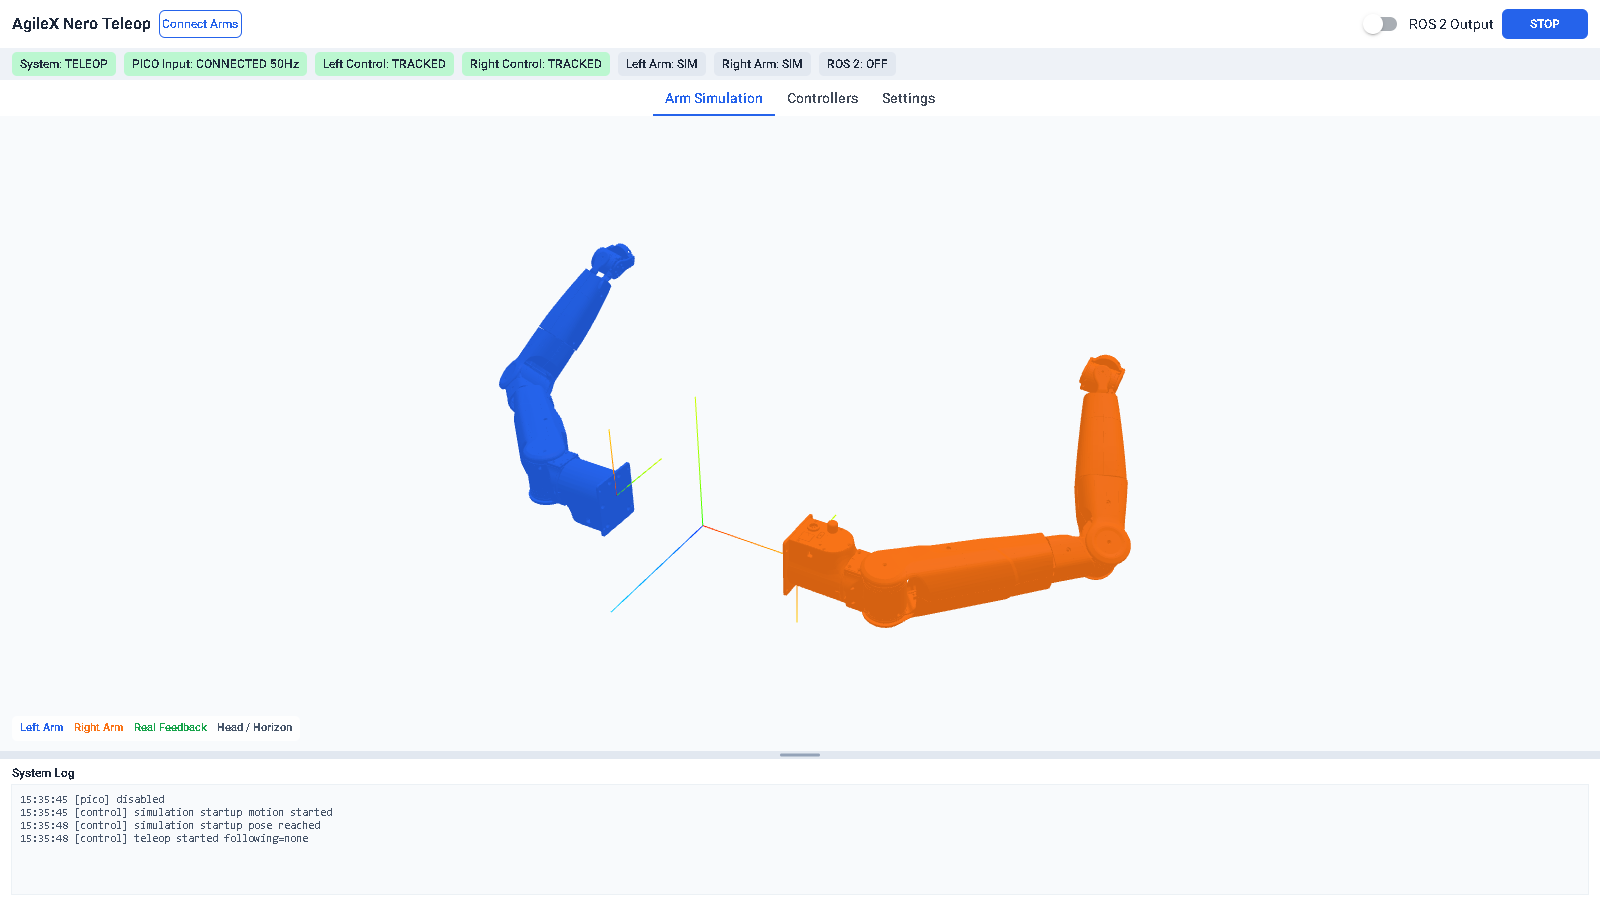
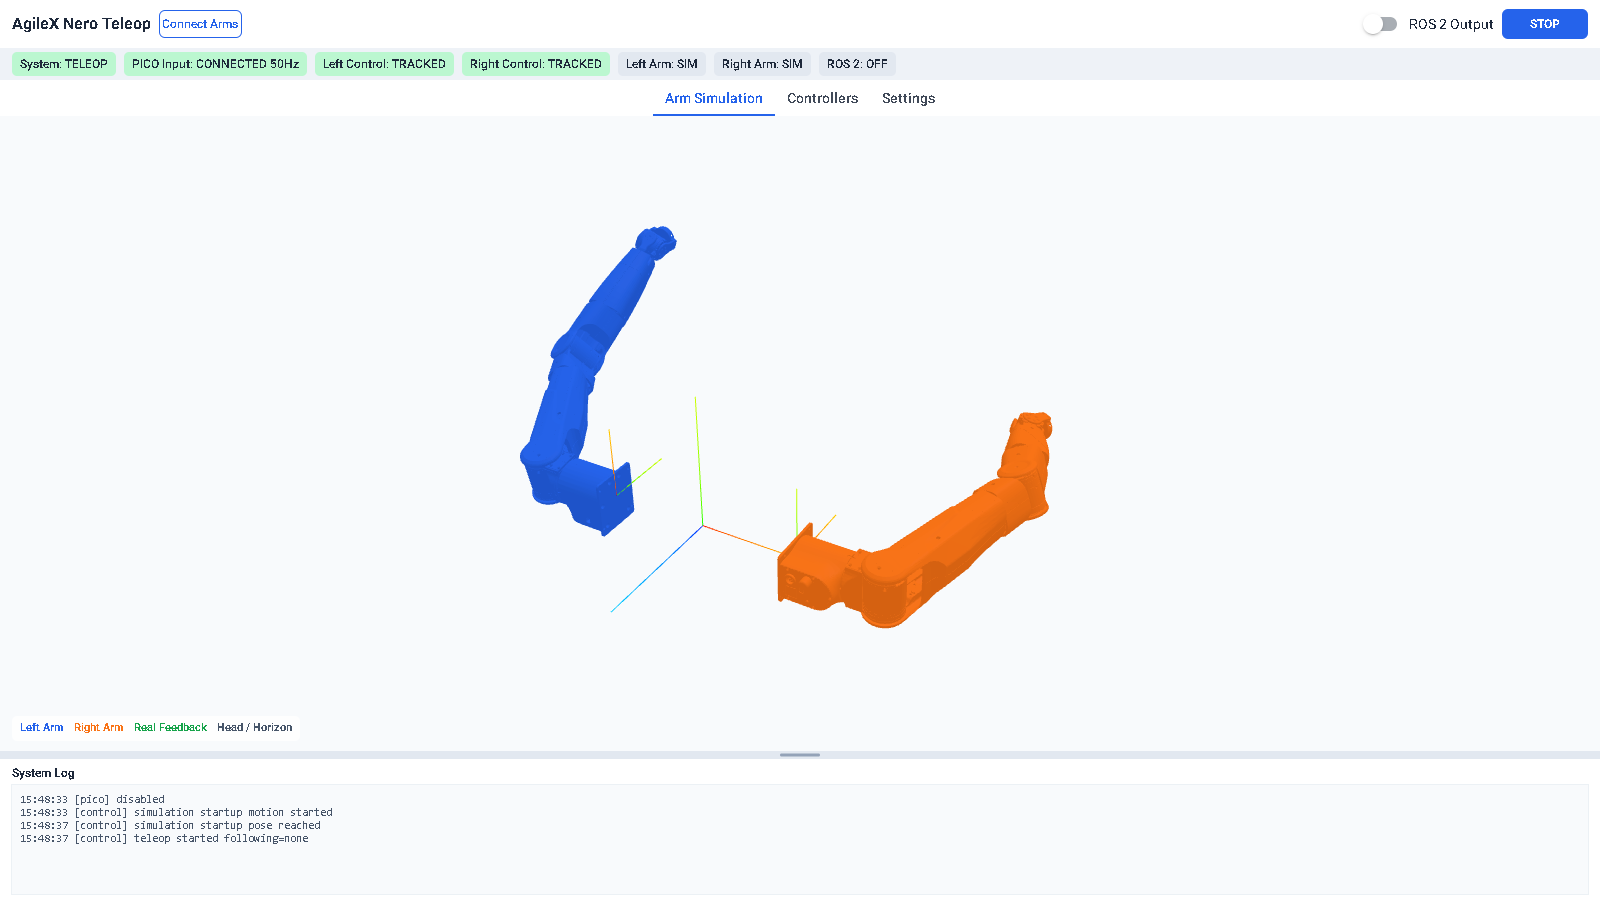
fix: rotate the right arm base another 90 degrees

Changed region(s): [[0.4688, 0.3733, 0.7188, 0.6844], [0.3125, 0.2489, 0.4375, 0.4978]]

diff --git a/config.py b/config.py
@@ -50,7 +50,7 @@ class FrameTransformConfig:
     translation_left_shoulder_to_left_arm_base_m: tuple[float, float, float] = (0.0, 0.0, 0.0)
     rotation_left_shoulder_to_left_arm_base_rpy_deg: tuple[float, float, float] = (-90.0, 0.0, 90.0)
     translation_right_shoulder_to_right_arm_base_m: tuple[float, float, float] = (0.0, 0.0, 0.0)
-    rotation_right_shoulder_to_right_arm_base_rpy_deg: tuple[float, float, float] = (-90.0, 0.0, -90.0)
+    rotation_right_shoulder_to_right_arm_base_rpy_deg: tuple[float, float, float] = (0.0, 90.0, 0.0)
     translation_horizon_to_left_shoulder_m: tuple[float, float, float] = (-0.16, 0.0, 0.0)
     translation_horizon_to_right_shoulder_m: tuple[float, float, float] = (0.16, 0.0, 0.0)
     translation_controller_to_flange_m: tuple[float, float, float] = (0.0, -0.03, 0.065)
